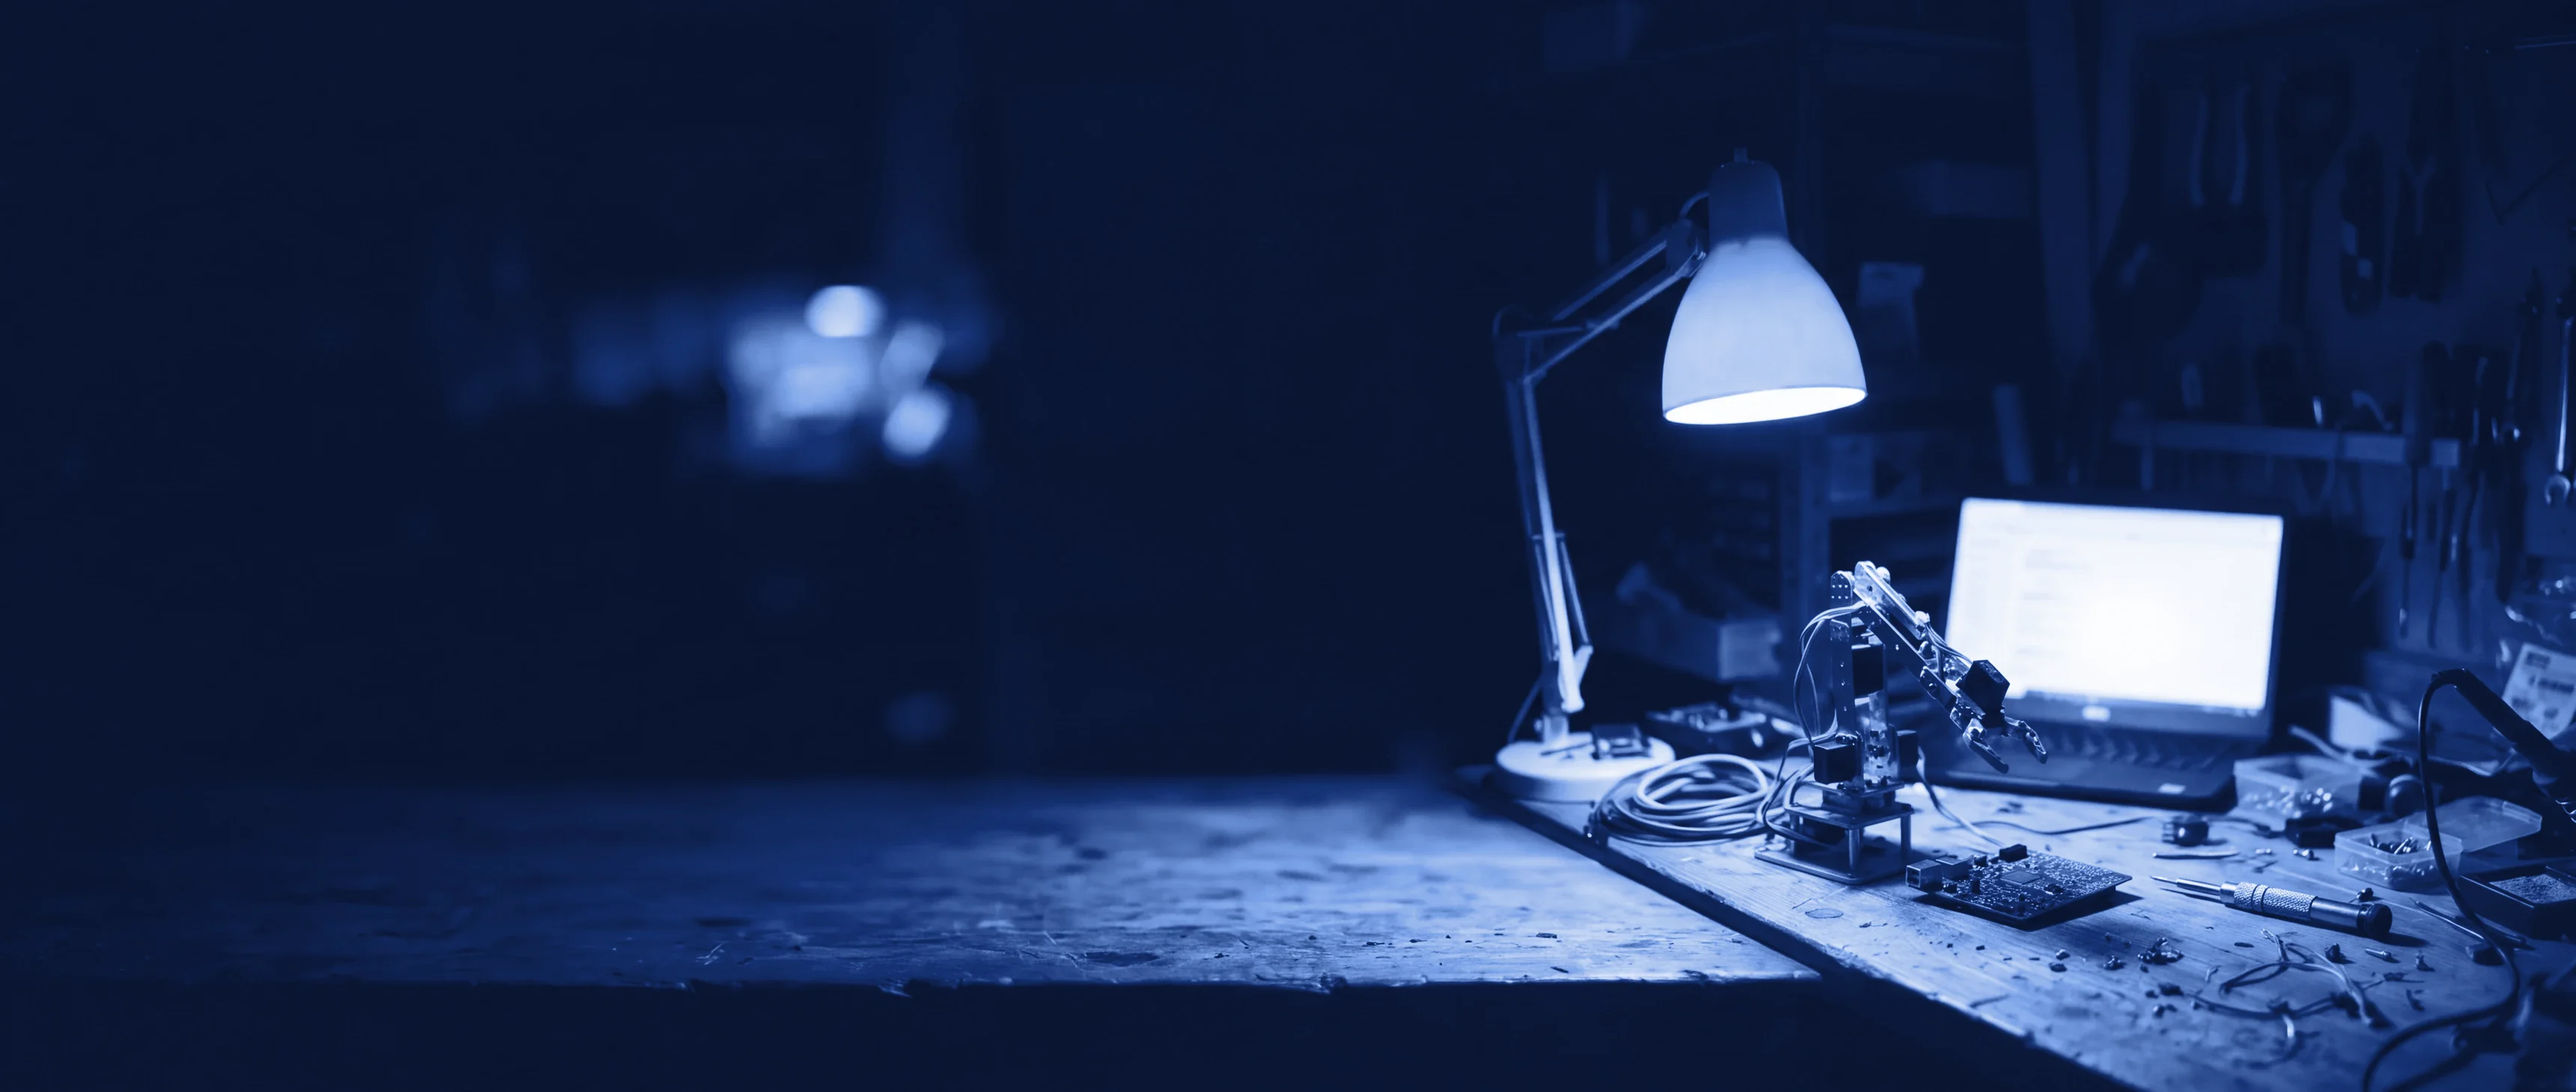
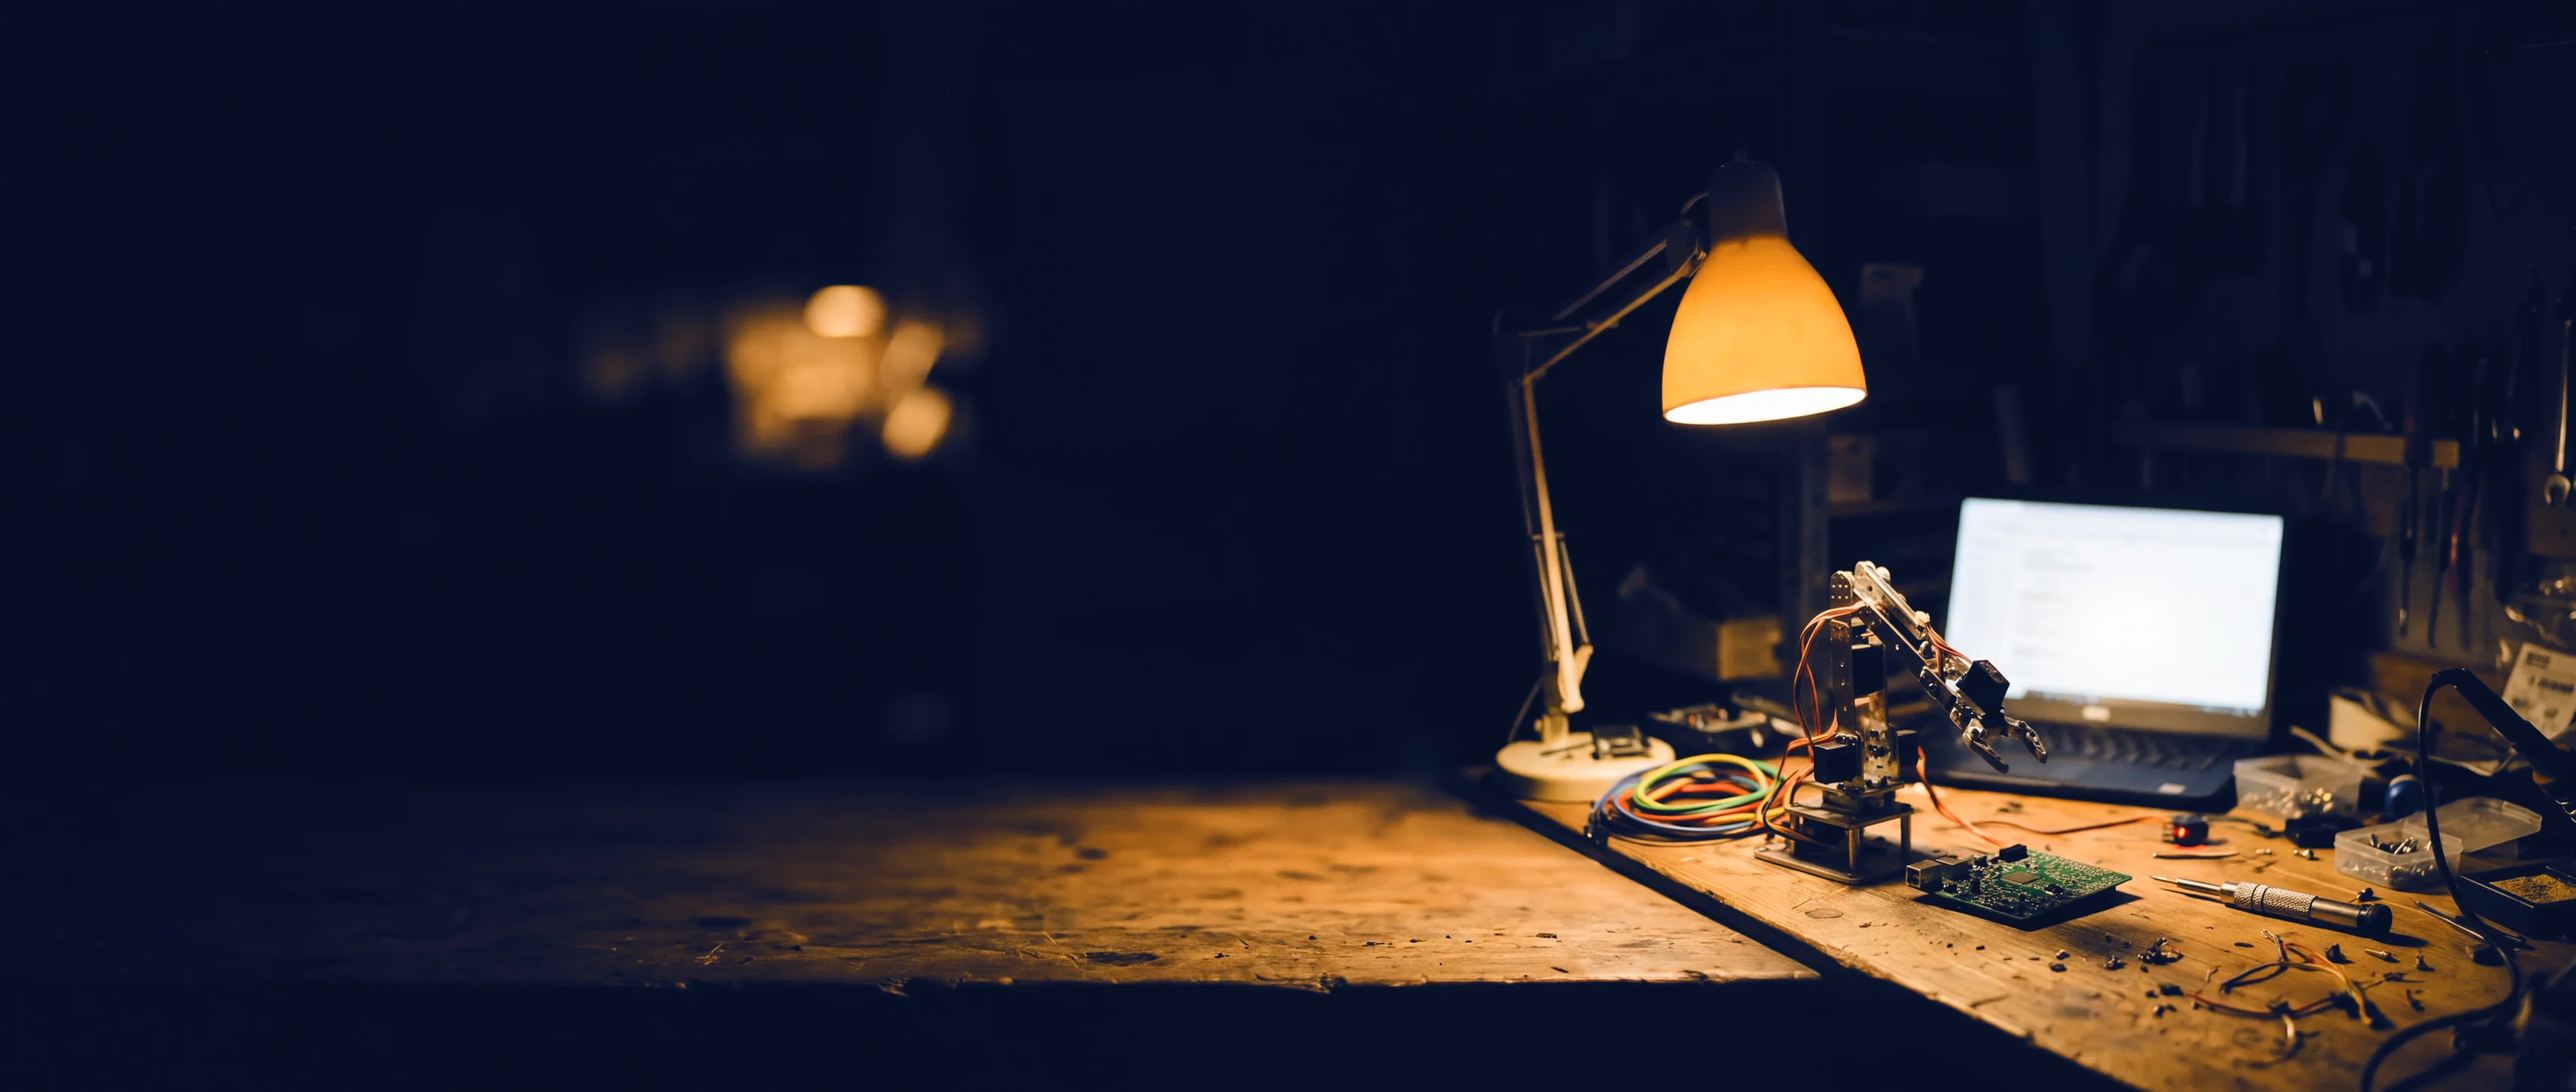
Live preview shows the real project page
The side card is the head of the project page, and See the full page
opens the draft at /project/draft. The Launch header keeps its colours
with navy only in the shadows.

diff --git a/app.js b/app.js
@@ -105,7 +105,7 @@ const clock = (ts, sec) => {
   const h = u ? d.getUTCHours() : d.getHours(), m = u ? d.getUTCMinutes() : d.getMinutes(), s = u ? d.getUTCSeconds() : d.getSeconds();
   return pad(h) + ':' + pad(m) + (sec ? ':' + pad(s) : '');
 };
-const logoSrc = p => p.logo ? `/assets/logos/${p.ref}.webp` : '/assets/art/dragonfly-poster.webp';
+const logoSrc = p => p.logoData || (p.logo ? `/assets/logos/${p.ref}.webp` : '/assets/art/dragonfly-poster.webp');
 const coverSrc = p => p.cover ? `/assets/covers/${p.ref}.webp` : '/assets/art/gears.webp';
 const pct = p => (p.mig ? 100 : Math.max(0, (p.prog || 0) * 100));
 const isUp = p => p.change ? !p.change.startsWith('-') : true;
@@ -1016,8 +1016,14 @@ function tradeHTML(p, state, amt, o) {
     <button class="btn full lg primary" data-buy ${wallet && (tooBig || a <= 0) ? 'disabled' : ''}>${go}</button>
     <div class="t-rows t-fine"><div>Priced from the pool<b id="asof">${clock(Date.now() / 1000, true)}</b></div><div>Floor<b>Enforced on chain</b></div><div>Quote<b>Preview, no transaction</b></div></div>`;
 }
+const draftP = () => {
+  const d = store.get('draft', {});
+  return { ref: 'draft', draft: true, pre: true, name: d.name || 'Your project', ticker: d.ticker || 'TICKER', quote: d.pair || 'SOL', at: new Date().toISOString(), desc: d.brief || d.pitch || '', pitch: d.pitch || '', tags: [],
+    proof: { sim: d.sim, d3: d.d3, pcb: d.pcb }, founder: d.founder ? { name: d.founder, role: 'Founder', img: '/assets/art/anon.svg' } : null,
+    links: (d.links || []).map(u => [detect(u), u.replace(/^https?:\/\//, ''), u]), logoData: d.logo, bannerData: d.banner };
+};
 function renderProject(ref) {
-  const p = ref === 'grablab' ? SAMPLE : byRef.get(ref);
+  const p = ref === 'draft' ? draftP() : ref === 'grablab' ? SAMPLE : byRef.get(ref);
   const v = $('#view');
   if (!p) {
     v.innerHTML = `<div class="wrap enter"><section class="panel block"><div class="empty"><b>Project not found</b><a class="btn sm" href="/" data-l>Back to Explore</a></div></section></div>`;
@@ -1037,11 +1043,12 @@ function renderProject(ref) {
   const fName = p.founder?.name || 'Anonymous', fees = feesOf(p);
 
   v.innerHTML = `<div class="wrap enter">
+    ${p.draft ? '<div class="dr-bar"><span>This is your page as visitors will see it.</span><a class="btn sm" href="/launch" data-l>Back to editing</a></div>' : ''}
     <div id="pbanner"></div>
     <div class="p-grid ${p.pre ? 'pre' : ''}">
       <div class="p-main">
         <section class="panel p-head grainy">
-          <div class="p-cover"><img src="${logoSrc(p)}" alt="" decoding="async"></div>
+          <div class="p-cover ${p.bannerData ? 'real' : ''}"><img src="${p.bannerData || logoSrc(p)}" alt="" decoding="async"></div>
           <div class="p-id"><img class="p-logo" data-vt="${esc(p.ref)}" src="${logoSrc(p)}" alt="">
             <div class="p-title">
               ${p.mint ? `<div class="p-pair"><b>$${esc(p.ticker)}</b> / ${esc(quote)}<button class="ca" data-copy="${esc(p.mint)}">CA ${short(p.mint)} ${I.copy}</button></div>` : ''}
@@ -1396,16 +1403,20 @@ function viewLaunch() {
       <h1 class="display">Put your machine on chain</h1><p>No account needed to start. Four steps, and you sign in only to publish.</p></div></section>
     <section class="panel block grainy" style="margin:0"><div><div class="steps" id="steps"></div><div id="sbody"></div></div></section>
     <aside class="panel grainy l-side"><div class="side-sticky">
-      <div class="preview"><div class="eyebrow">Live preview</div><div id="pv"></div></div>
+      <div class="preview"><div class="eyebrow">Live preview</div><div id="pv"></div><a class="btn mp-open" href="/project/draft" data-l>See the full page</a></div>
       <div class="l-ready"><div class="eyebrow">Ready to publish</div><div class="check" id="chk"></div></div>
     </div></aside></div></div>`;
   const save = () => { try { store.set('draft', d); } catch { toast('Draft too large for this browser.'); } };
   const pvObj = () => ({ ref: 'draft', name: d.name || 'Your project', ticker: d.ticker || 'TICKER', tags: [], at: new Date(SNAP - 60000).toISOString(), mc: 4600, quote: d.pair, prog: 0, proof: { sim: d.sim, d3: d.d3, pcb: d.pcb }, spark: [], logo: false, cover: false });
   const drawPv = () => {
-    const c = $('#pv');
-    c.innerHTML = card(pvObj(), { preview: true });
-    if (logo) $('.logo', c).src = logo;
-    if (banner) { $('.bg', c).src = banner; $('.c-top', c).classList.add('has-b'); }
+    const c = $('#pv'), p = pvObj(), proofs = [['Sim', d.sim], ['3D', d.d3], ['PCB', d.pcb], ['Video', d.video]].filter(k => k[1]);
+    c.innerHTML = `<div class="mp">
+      <div class="mp-cv"><img class="bg ${banner ? 'set' : ''}" src="${banner || coverSrc(p)}" alt=""></div>
+      <div class="mp-id"><img class="logo" src="${logo || logoSrc(p)}" alt=""><div class="mp-t"><h4 class="c-name">${esc(p.name)}</h4><span>$${esc(p.ticker)} / ${esc(p.quote)}</span></div></div>
+      <div class="mp-tags"><span class="stage pre">Pre launch</span>${proofs.map(k => `<span class="mini hw">${k[0]}</span>`).join('')}</div>
+      <p>${esc(d.pitch || 'Your one line shows here.')}</p>
+      <div class="mp-f"><img src="/assets/art/anon.svg" alt=""><span>${esc(d.founder || 'Anonymous')}</span><i>${d.links.map(u => I[detect(u)]).join('')}</i></div>
+    </div>`;
     const ck = [[d.name && d.pitch, 'Name and one line'], [d.brief.length >= 40, 'Brief of 40+ characters'], [d.links.length, 'At least one link'], [d.sim || d.d3 || d.pcb, 'One proof of work'], [/^[A-Z0-9]{2,10}$/.test(d.ticker), 'Ticker set']];
     $('#chk').innerHTML = ck.map(k => `<div class="${k[0] ? 'ok' : ''}"><i>${k[0] ? I.check : ''}</i>${k[1]}</div>`).join('');
   };

diff --git a/app.css b/app.css
@@ -1119,3 +1119,24 @@ html:has(dialog.fnd[open]) body *:not(dialog.fnd,dialog.fnd *){animation-play-st
 .t-rev b{display:inline-flex;align-items:center;gap:8px;min-width:0;font:800 19px/1.2 Archivo,sans-serif;font-stretch:125%;color:var(--text);overflow-wrap:anywhere}
 .t-rev b img{width:20px;height:20px}
 @media (max-width:820px){.t-rev{grid-template-columns:repeat(2,minmax(0,1fr))}}
+/* live preview: the head of the real project page, in small */
+.preview{pointer-events:auto}
+.mp{display:grid;background:#0e0f12;box-shadow:inset 0 0 0 1px var(--edge);overflow:hidden;pointer-events:none}
+.mp-cv{aspect-ratio:3/1;overflow:hidden;background:#0a1228}
+.mp-cv img{display:block;width:100%;height:100%;object-fit:cover;filter:blur(14px) brightness(.6);transform:scale(1.15)}
+.mp-cv img.set{filter:none;transform:none}
+.mp-id{display:flex;align-items:flex-end;gap:12px;margin-top:-26px;padding:0 14px;position:relative}
+.mp-id .logo{flex:none;width:64px;height:64px;object-fit:cover;border-radius:4px;background:#000;box-shadow:0 0 0 3px #0e0f12,0 0 0 4px var(--edge-2)}
+.mp-t{min-width:0;padding-bottom:1px}
+.mp-t h4{margin:0;font:800 17px/1.15 Archivo,sans-serif;font-stretch:125%;text-transform:uppercase;color:var(--text);white-space:nowrap;overflow:hidden;text-overflow:ellipsis}
+.mp-t span{font:500 11.5px var(--mono);color:var(--mut)}
+.mp-tags{display:flex;flex-wrap:wrap;gap:6px;padding:12px 14px 0}
+.mp>p{margin:0;padding:10px 14px 0;font-size:13.5px;line-height:1.45;color:#d4d6dc}
+.mp-f{display:flex;align-items:center;gap:8px;margin-top:12px;padding:10px 14px;border-top:1px solid var(--edge);font-size:12.5px;color:var(--mut)}
+.mp-f img{width:22px;height:22px;border-radius:50%}
+.mp-f span{min-width:0;overflow:hidden;text-overflow:ellipsis;white-space:nowrap}
+.mp-f i{display:flex;gap:7px;margin-left:auto;font-style:normal;color:var(--text)}
+.mp-f svg{width:14px;height:14px}
+.mp-open{justify-content:center;width:100%}
+.dr-bar{display:flex;align-items:center;justify-content:space-between;gap:14px;margin-top:14px;padding:9px 12px 9px 16px;background:rgba(12,17,34,.72);box-shadow:inset 0 0 0 1px rgba(255,255,255,.12);font-size:13.5px;color:#d7deee}
+.p-cover.real img{filter:none;transform:none;opacity:1}
